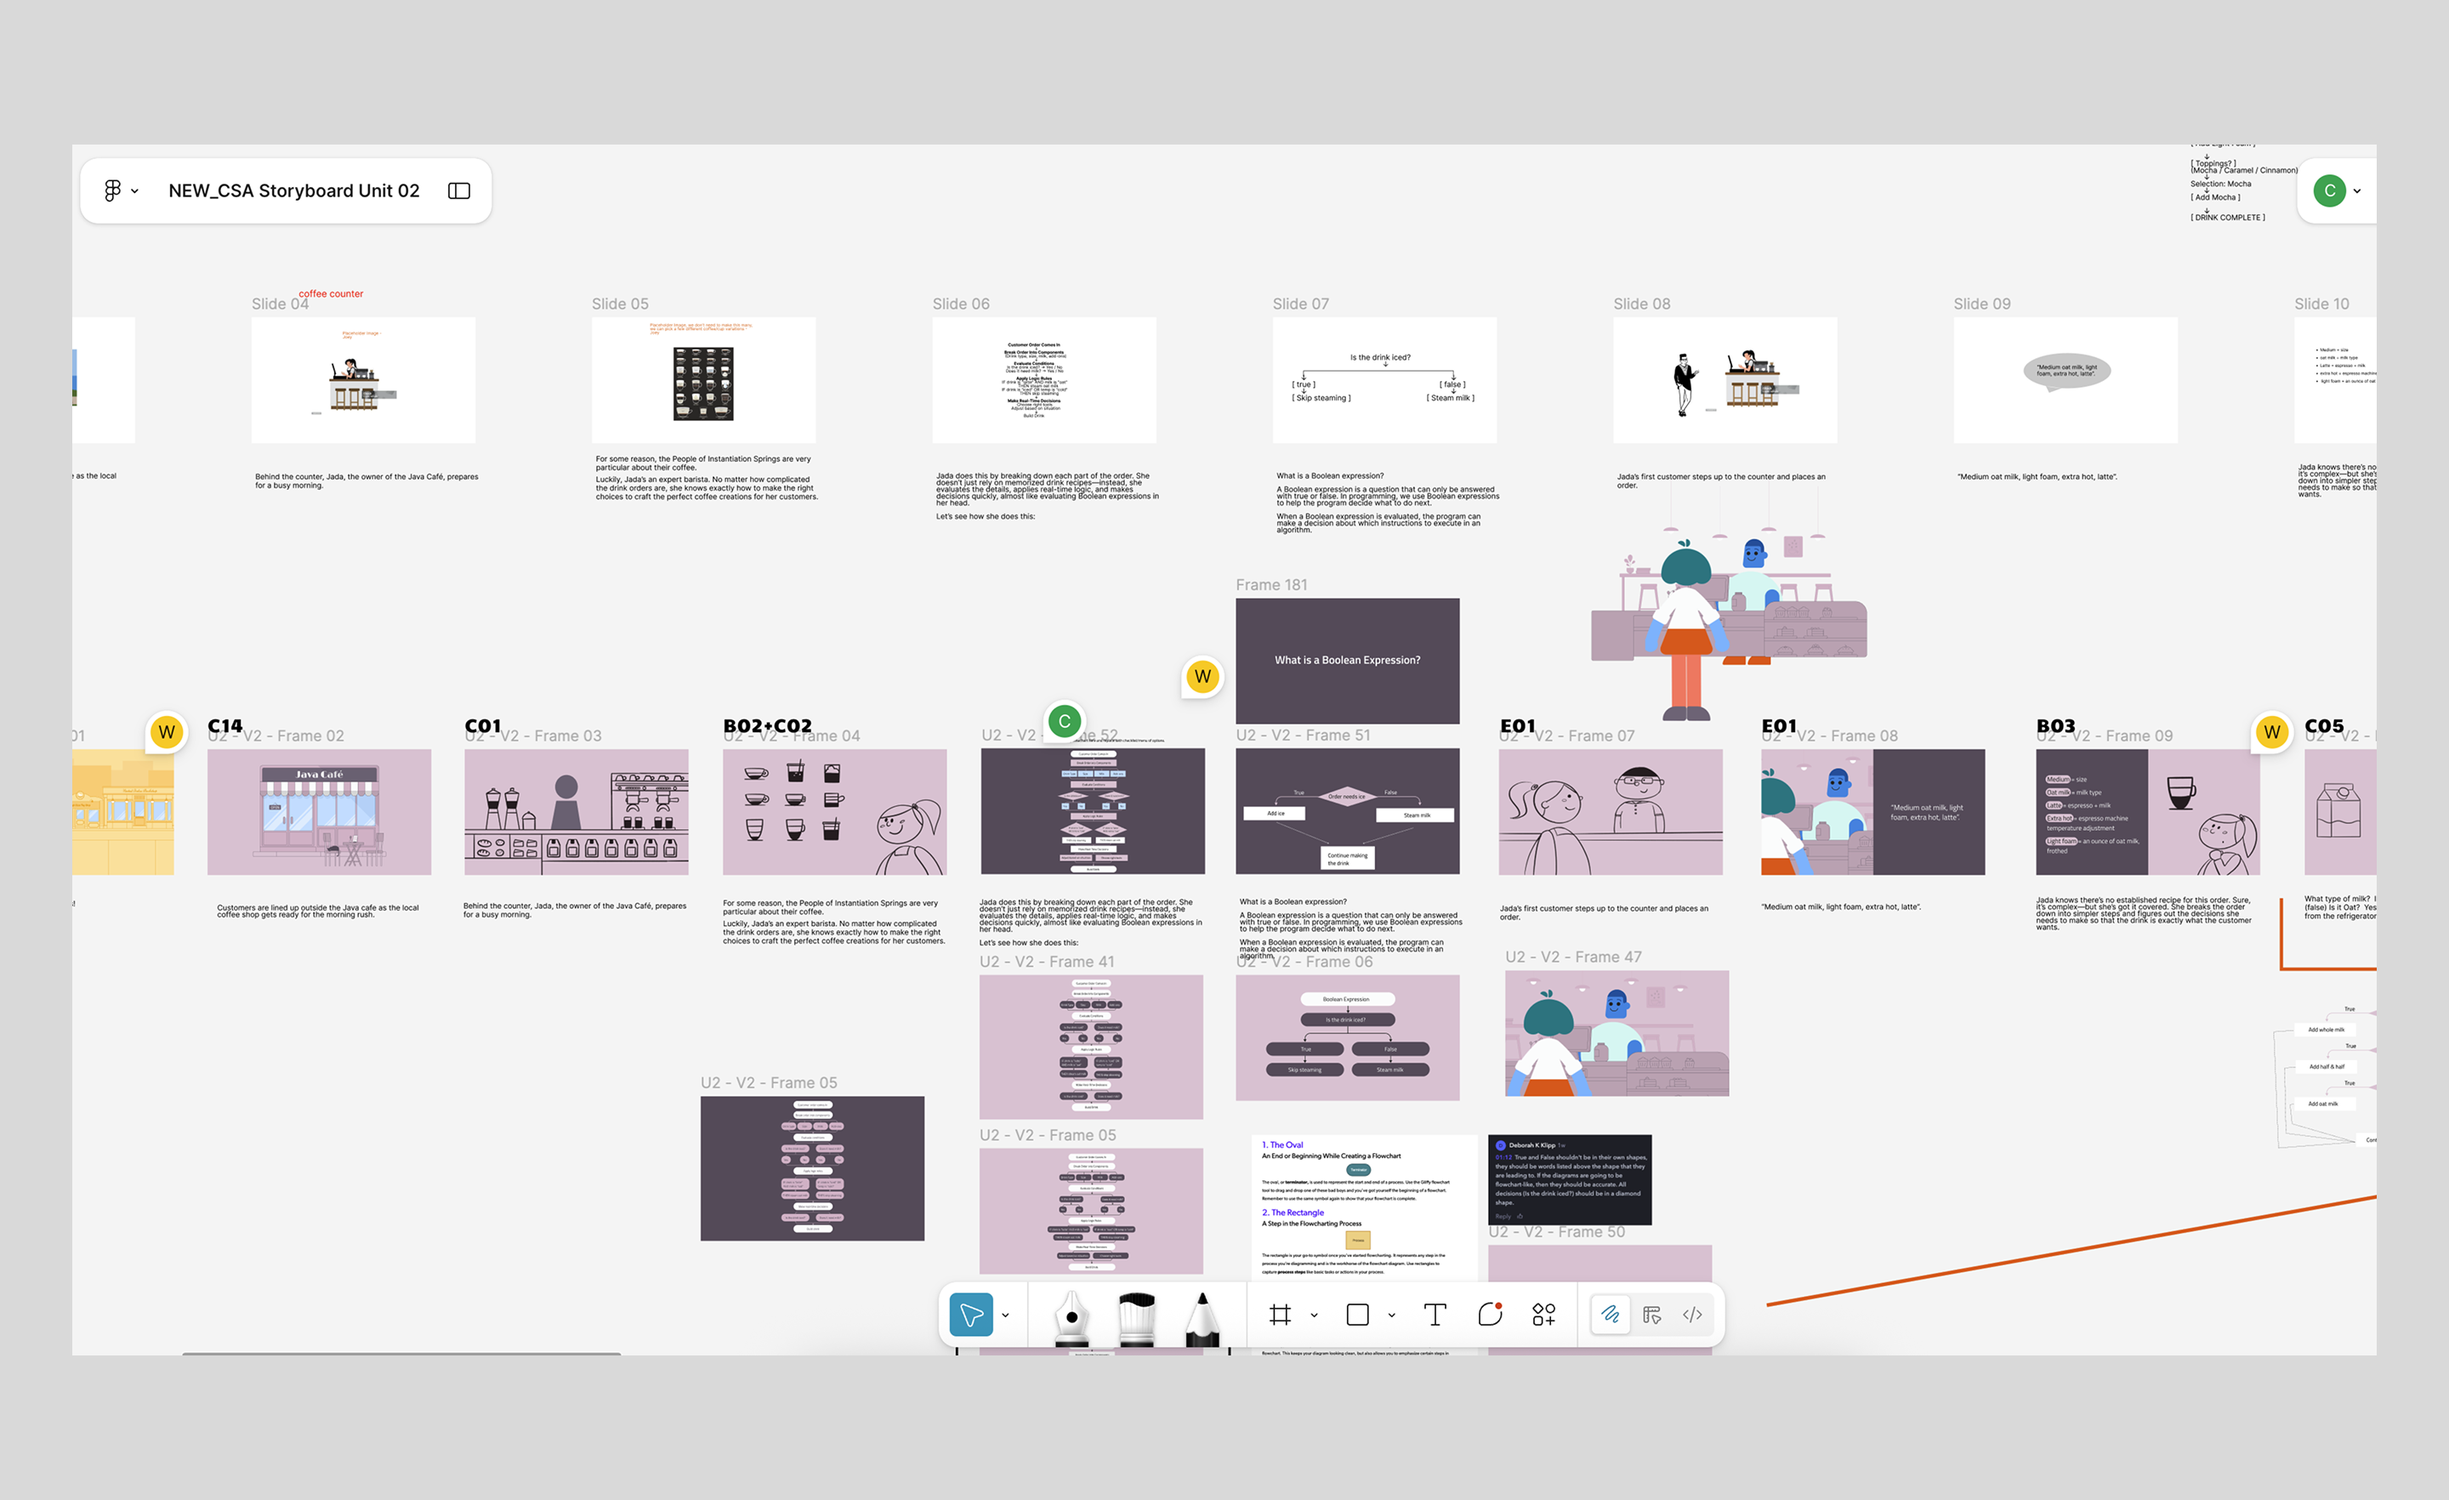
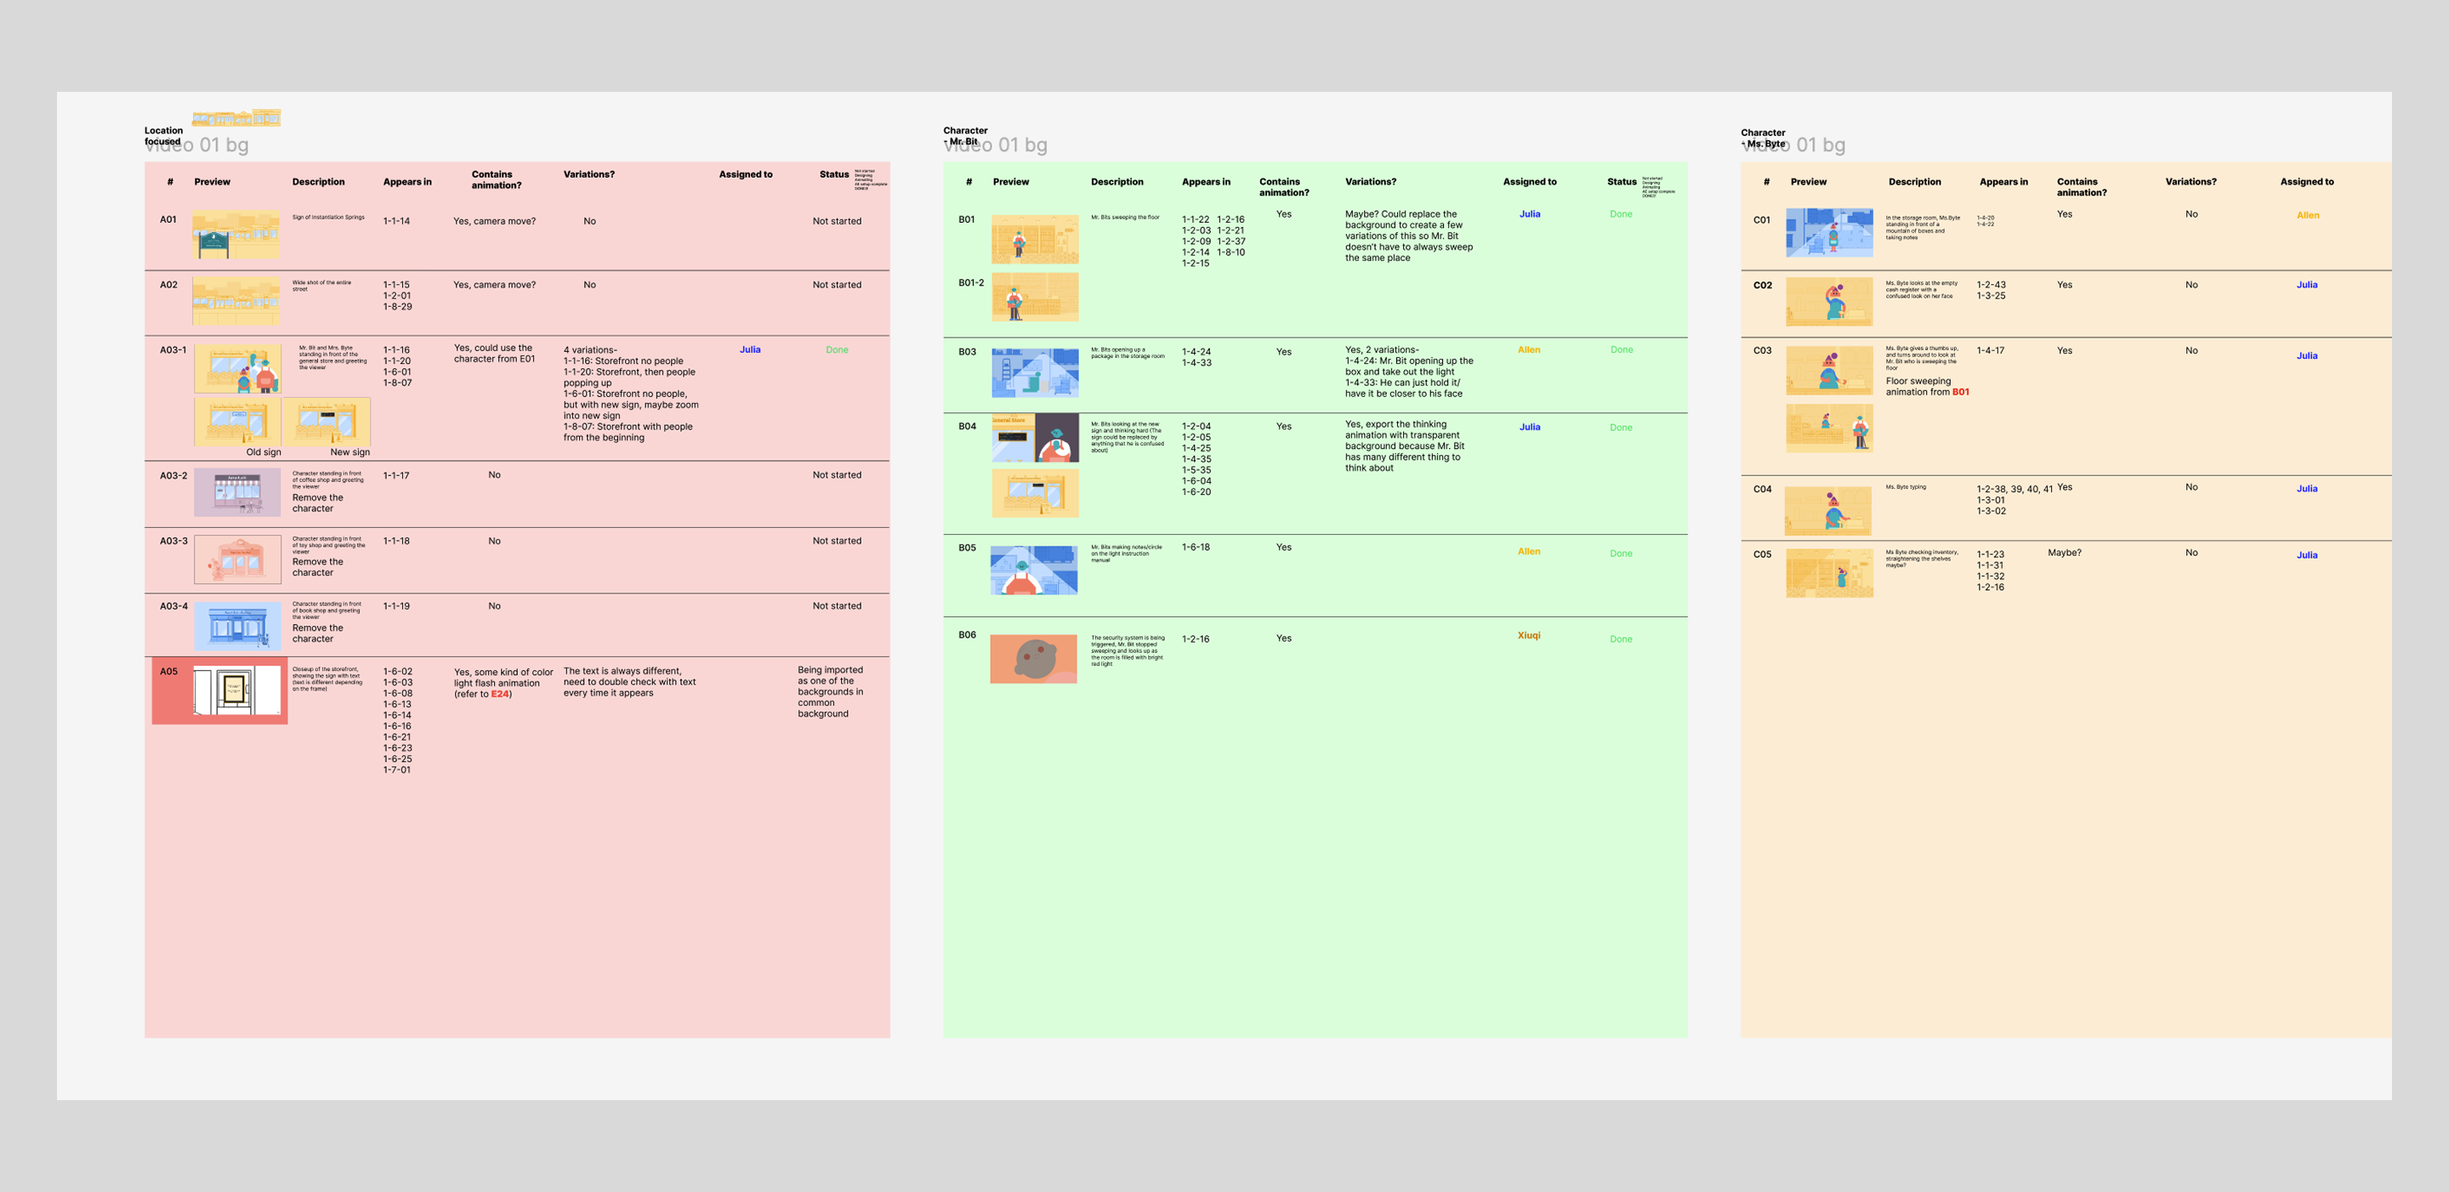
Add Animation Template copy, update CSA03 asset
CSA03 (Assets Library) was replaced with a new board at a different
aspect ratio (2880x1402 vs the old 2880x1764) — regenerated its small
placeholder and updated aspectRatio to match, so the frame still fits
without cropping.

diff --git a/src/content/projects/ap-computer-science-a/index.tsx b/src/content/projects/ap-computer-science-a/index.tsx
@@ -86,8 +86,6 @@ const project: Project = {
     { src: csaHl11, placeholder: csaHl11Small },
     { src: csaHl6, placeholder: csaHl6Small },
   ],
-  // Reference media is still a stand-in pending real assets; the
-  // Animation Template milestone is also awaiting final copy.
   processTimeline: [
     {
       phase: "Phase 1",
@@ -148,7 +146,7 @@ const project: Project = {
         type: "hero",
         src: timeline03,
         placeholder: timeline03Small,
-        aspectRatio: 2880 / 1764,
+        aspectRatio: 2880 / 1402,
       },
     },
     {
@@ -228,7 +226,15 @@ const project: Project = {
     {
       phase: "Phase 3",
       title: "Animation Template",
-      description: "Placeholder description copy for this milestone.",
+      description: (
+        <p>
+          Once all animation assets were ready, motion designers had 2 to 3
+          days to assemble each full episode (ranging from 5 to 20 minutes)
+          using standardized After Effects templates. The finished videos
+          were then uploaded to Frame.io for team review and client
+          feedback.
+        </p>
+      ),
       media: {
         type: "hero",
         src: timeline07,
